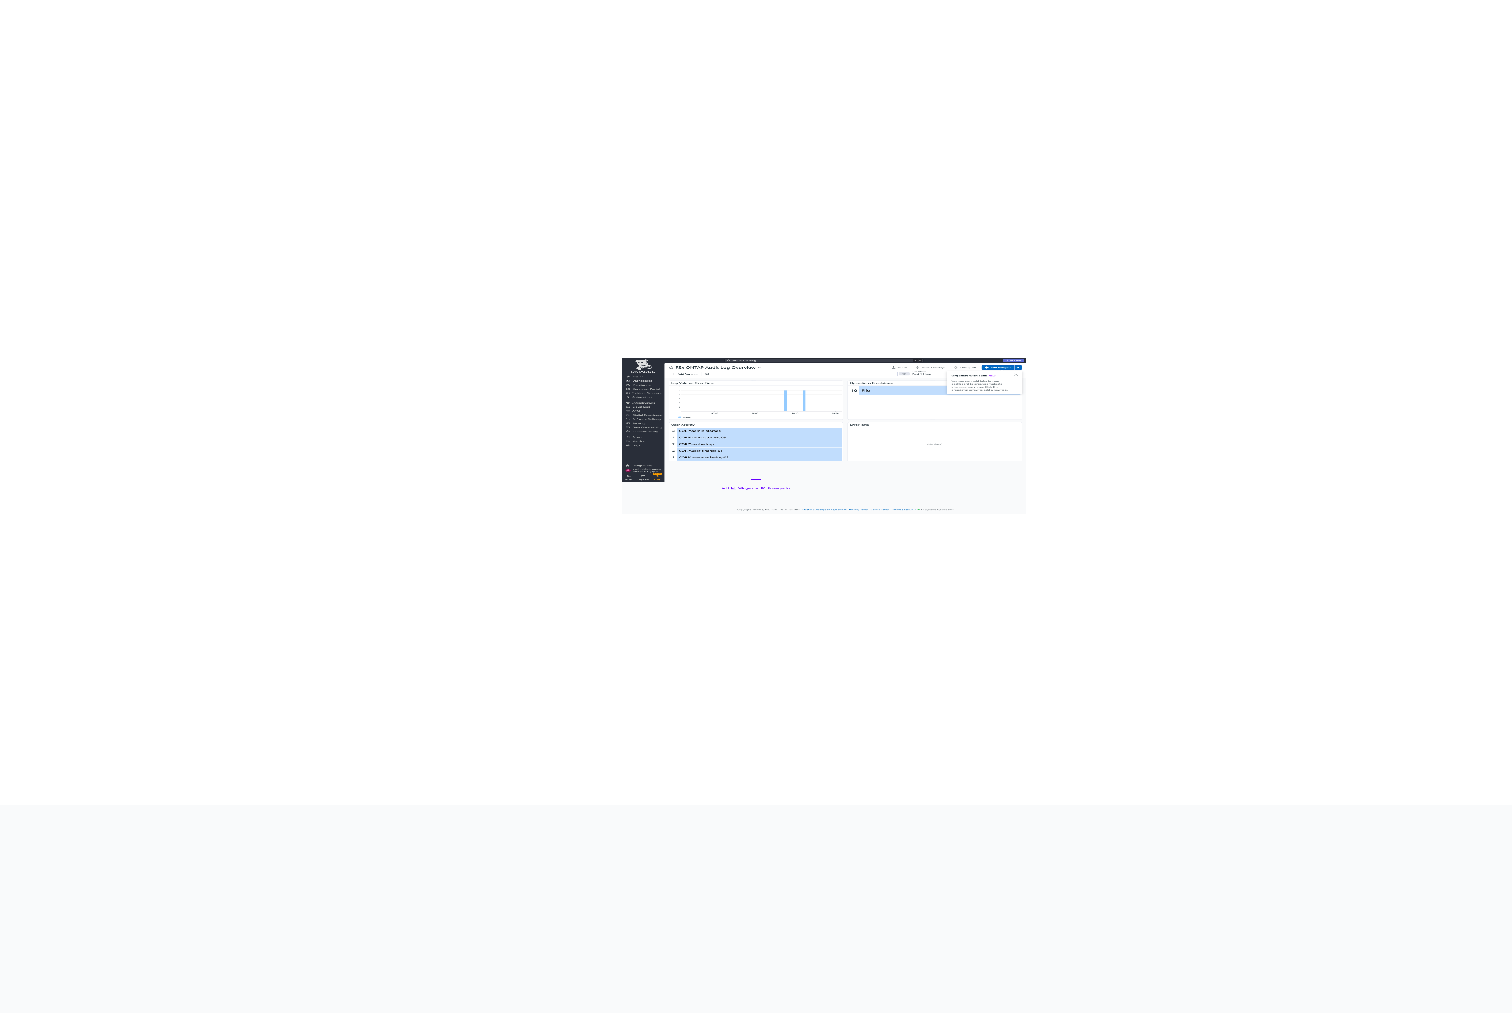
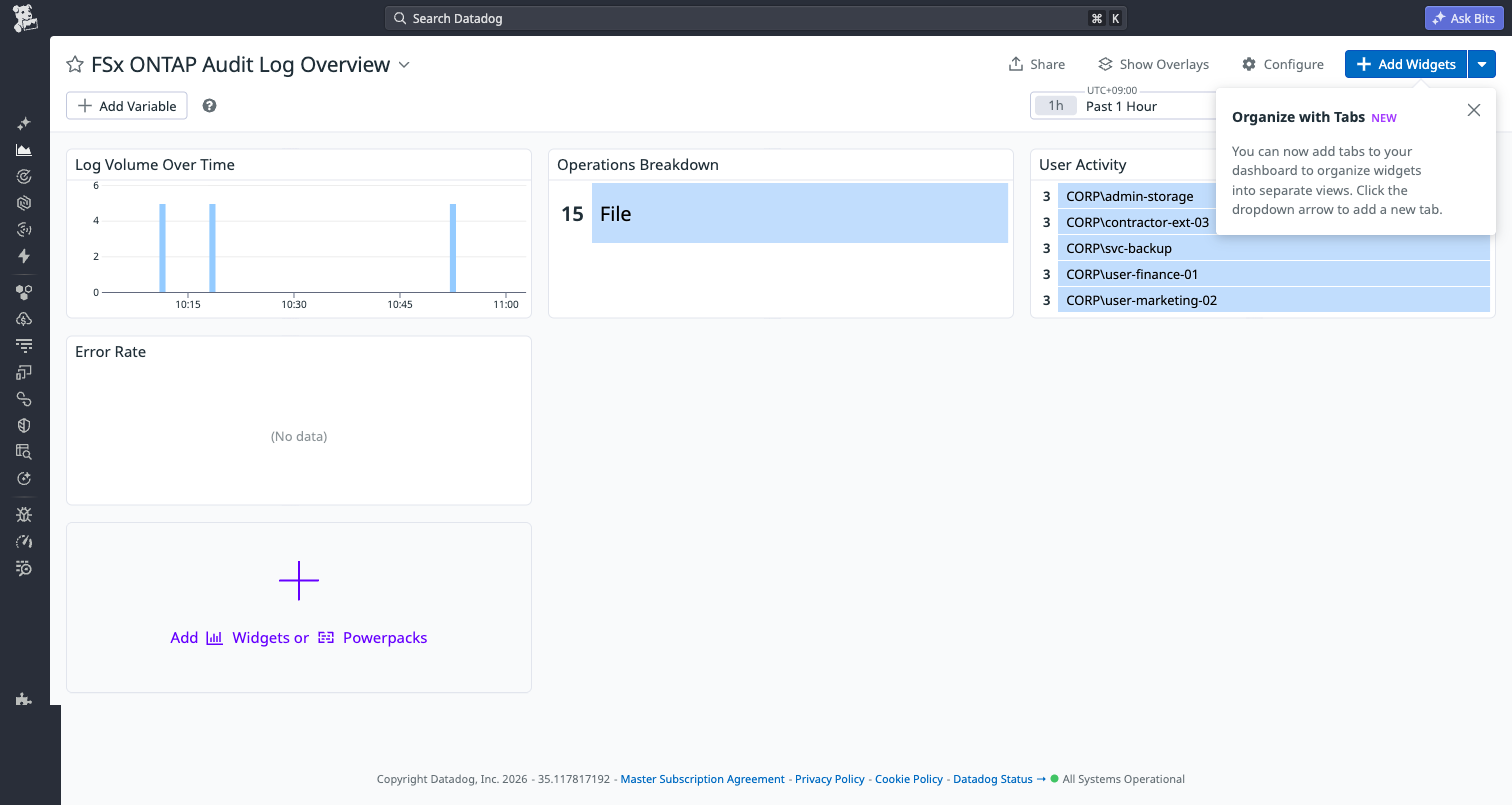
feat: add Datadog Log Pipeline, Monitors, and demo guide
- Create Log Pipeline: EventID→Operation Name category processor,
  date remapper, status remapper, attribute remappers (user→usr.id,
  client_ip→network.client.ip)
- Create 3 security monitors: Mass File Deletion (>50/5min),
  Abnormal Access Volume (>1000/1h), Access Failure Spike (>10/15min)
- Update README with E2E verification results, screenshots, and
  pipeline/monitor documentation
- Re-capture all screenshots with minimized sidebar (no PII visible)
- Strip PNG metadata and mask sidebar profile icon area
- Store APP key in Secrets Manager for API management

diff --git a/integrations/datadog/README.md b/integrations/datadog/README.md
@@ -70,8 +70,55 @@ aws cloudformation deploy \
 - CloudWatch Alarm: DLQ messages appearing
 - Dead Letter Queue: Failed events preserved for 14 days
 
+## E2E Verification Results
+
+✅ **Verified on paid Datadog AP1 plan** (June 2026)
+
+| Component | Status | Evidence |
+|-----------|--------|----------|
+| XML audit log parsing (5 events) | ✅ | EventID 4663/4656/4660 |
+| Datadog Logs API v2 delivery | ✅ HTTP 202 | 10 events in Log Explorer |
+| Field extraction | ✅ | user, path, client_ip, event_type, result, svm, operation |
+| Log Pipeline (EventID→Operation) | ✅ | Category processor applied |
+| Monitors (mass delete, abnormal access, failure spike) | ✅ | 3 monitors active |
+| Dashboard | ✅ | FSx ONTAP Audit Log Overview |
+
+### Screenshots
+
+| Screenshot | Description |
+|-----------|-------------|
+| ![Log Explorer](screenshots/datadog-log-explorer-fsxn-xml.png) | Log Explorer showing FSxN audit events with full field extraction |
+| ![Dashboard](screenshots/datadog-dashboard-fsxn-overview.png) | FSx ONTAP Audit Log Overview dashboard |
+| ![Pipeline](screenshots/datadog-log-pipeline-config.png) | Log Pipeline configuration (EventID→Operation Name mapping) |
+| ![Monitors](screenshots/datadog-monitors-fsxn.png) | Security monitors for mass deletion, abnormal access, and access failures |
+
+## Log Pipeline Configuration
+
+The pipeline (`FSx for ONTAP Audit Logs`) applies to logs matching `source:fsxn` and includes:
+
+1. **Category Processor** — Maps EventID to human-readable operation names:
+   - 4663 → Object Access
+   - 4656 → Handle Request
+   - 4660 → Object Delete
+   - 4670 → Permission Change
+   - 5140 → Share Access
+   - 4624 → Logon / 4634 → Logoff
+
+2. **Status Remapper** — Maps `result` field to Datadog log status
+3. **Date Remapper** — Uses `timestamp` field as the log timestamp
+4. **Attribute Remapper** — Maps `user` → `usr.id`, `client_ip` → `network.client.ip`
+
+## Security Monitors
+
+| Monitor | Threshold | Severity | Description |
+|---------|-----------|----------|-------------|
+| Mass File Deletion | >50 deletes/5min per user | Critical | Detects bulk file deletion (ransomware, accidental) |
+| Abnormal Access Volume | >1000 accesses/1h per user | High | Detects potential data exfiltration |
+| Access Failure Spike | >10 failures/15min per user | Medium | Detects unauthorized access attempts |
+
 ## Important Notes
 
 - **FSx for ONTAP S3 APs do NOT support S3 Event Notifications.** Lambda is invoked on a schedule (EventBridge Scheduler) and uses checkpointing to process only newly rotated files.
 - **Internet-origin S3 APs** timed out with only a Gateway Endpoint in our environment. If Lambda is in a VPC, use NAT Gateway or create a VPC-origin AP.
 - Audit log format: EVTX or XML (configured via `vserver audit create -format {evtx|xml}`)
+- **Datadog region**: This integration is verified on AP1 (ap1.datadoghq.com). Adjust `DatadogSite` parameter for other regions.